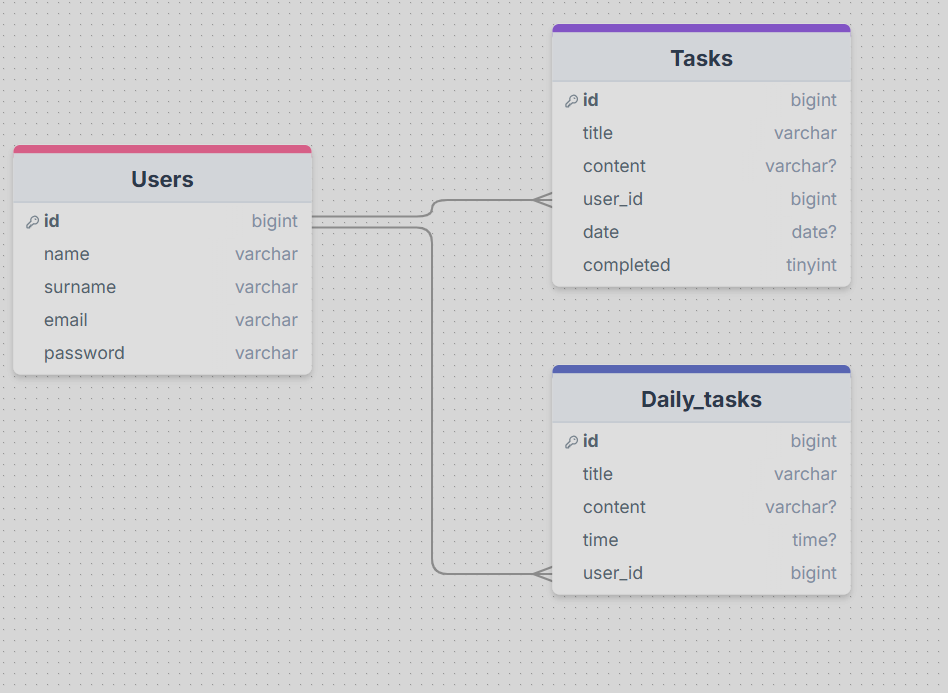
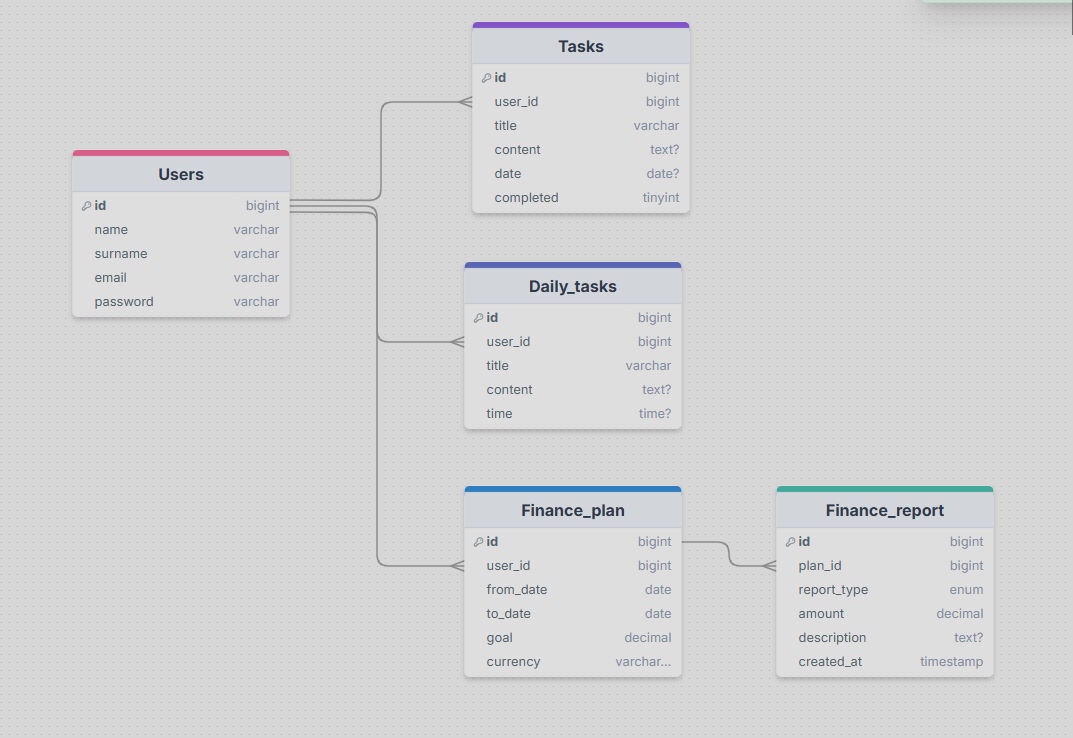
updated database with finance plan and finance report

diff --git a/frontend/src/components/TaskList.jsx b/frontend/src/components/TaskList.jsx
@@ -21,9 +21,13 @@ export default function TaskList({
           <h5>Your tasks</h5>
           {Button && <Button />}
         </div>
-        {tasksData.map((task, index) => (
-          <TaskItem taskData={task} key={index} />
-        ))}
+        {tasksData && (
+          <>
+            {tasksData.map((task, index) => (
+              <TaskItem taskData={task} key={index} />
+            ))}
+          </>
+        )}
       </div>
     </div>
   );

diff --git a/frontend/src/pages/Daily/DailyPage.jsx b/frontend/src/pages/Daily/DailyPage.jsx
@@ -22,7 +22,7 @@ export default function DailyPage() {
   }, [userId]);
 
   if (error) {
-    return <h1 className="text-white">Error: {error}</h1>;
+    console.log(error);
   }
 
   return (

diff --git a/frontend/src/pages/Tasks/TasksPage.jsx b/frontend/src/pages/Tasks/TasksPage.jsx
@@ -22,7 +22,7 @@ export default function TasksPage() {
   }, [userId]);
 
   if (error) {
-    return <h1 className="text-white">Error: {error}</h1>;
+    console.log(error);
   }
 
   return (
